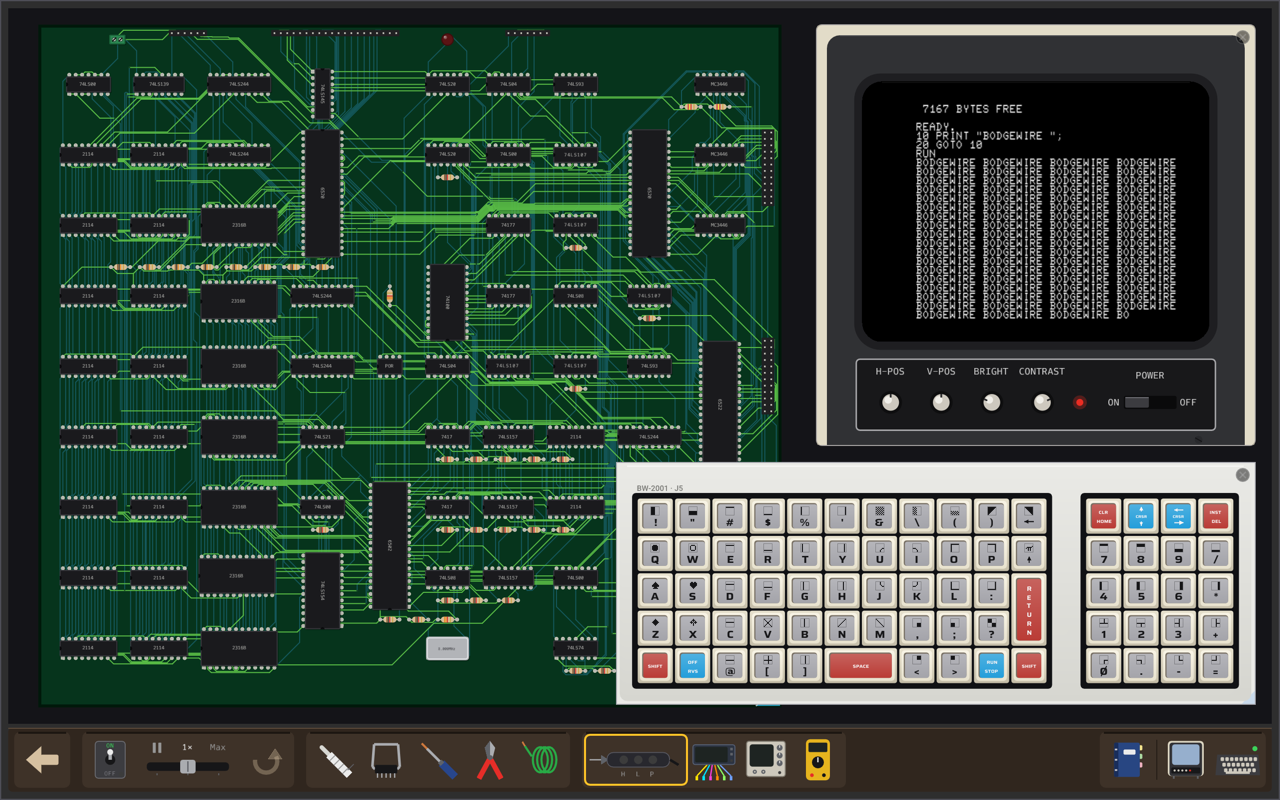
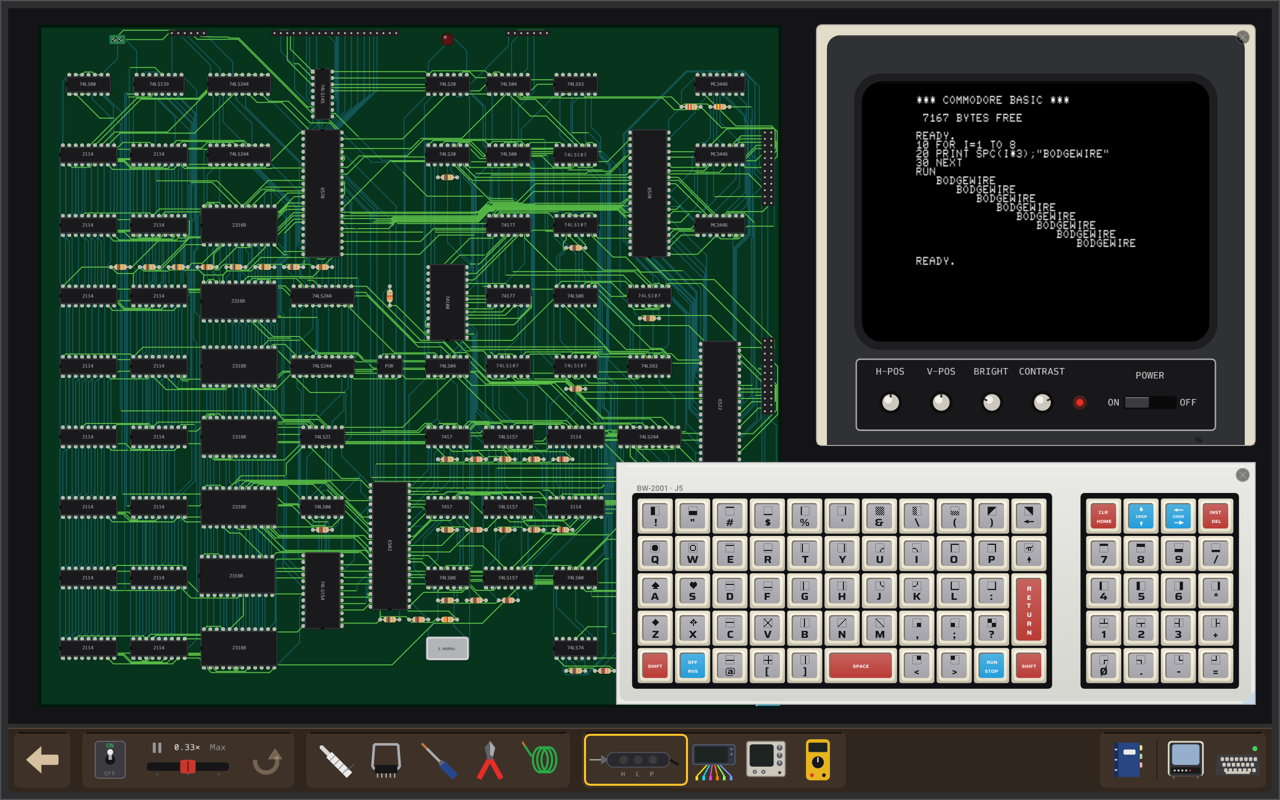
docs: the README's slow Machines at their speeds, the BW-2001 running a FOR loop
The BW-2001 at a third of its real speed, the BW-80 at a fifth (the M5
Max, now). Their pictures retaken with the speed on the run switch; the
BW-2001's program a FOR loop that ends: the banner, the program, its
staircase and READY. in one picture.

Changed region(s): [[0.7188, 0.0938, 0.9375, 0.4062], [0.125, 0.9375, 0.1562, 0.9688]]

diff --git a/tools/readme_shots.py b/tools/readme_shots.py
@@ -58,11 +58,13 @@ SHOTS = {
          "--type", "J3:1s:HELLO, WORLD"], "2.5s"),
     "led-computer": (["machines/110-led-computer/led_computer.bwn"], "1s"),
     "bw1": (["machines/120-bw1/bw1.bwn"], "2s"),
-    # 0.25x: 1.4 s simulated is 6 s of wall time, then the typing and a screenful.
+    # 0.33x: 1.4 s simulated is about 4 s of wall time, then the typing. A loop that ends, so the
+    # picture holds the boot banner, the program, its staircase and READY.
     "bw2001": (
         ["machines/130-bw2001/bw2001.bwn",
-         "--type", 'J5:1.4s:10 PRINT "BODGEWIRE ";\n20 GOTO 10\nRUN\n'], "25s"),
-    # 0.16x, about 0.18 s simulated a key. A two-line program entered, not run: at the K cursor
+         "--type", 'J5:1.4s:10 FOR I=1 TO 8\n20 PRINT SPC(I*3);"BODGEWIRE"\n30 NEXT\nRUN\n'],
+        "25s"),
+    # 0.2x, about 0.18 s simulated a key. A two-line program entered, not run: at the K cursor
     # O is PRINT and G is GOTO; NEW LINE is \r.
     "bw80": (
         ["machines/140-bw80/bw80.bwn", "--type", 'J3:400ms:10O"BODGEWIRE ";\r20G10\r'], "40s"),

diff --git a/docs/README_SPEC.md b/docs/README_SPEC.md
@@ -14,7 +14,7 @@ cmake --build --preset release && python3 -I tools/readme_shots.py          # al
 python3 -I tools/readme_shots.py bench traces                               # some
 ```
 
-View every picture after taking it. The slow Machines (BW-2001 at 0.25×, BW-80 at 0.16×) need
+View every picture after taking it. The slow Machines (BW-2001 at about 0.33×, BW-80 at 0.2×) need
 their `--after` raised on a slower computer.
 
 ## Audience
@@ -141,7 +141,7 @@ show something typed:
 | `typewriter` | TV Typewriter | CLEAR, then "HELLO, WORLD" typed |
 | `led-computer` | LED computer | the light running |
 | `bw1` | BW-1 (KIM-1-like) | the keypad and its six digits |
-| `bw2001` | BW-2001 (PET 2001 copy) | a BASIC loop printing BODGEWIRE |
+| `bw2001` | BW-2001 (PET 2001 copy) | the boot banner, a `FOR` loop typed and run (`10 FOR I=1 TO 8`, `20 PRINT SPC(I*3);"BODGEWIRE"`, `30 NEXT`): a staircase of BODGEWIRE, then `READY.` |
 | `bw80` | BW-80 (ZX80 copy) | a two-line program entered, not run: `10 PRINT "BODGEWIRE ";`, `20 GOTO 10` |
 
 ### 9. Building it
@@ -153,7 +153,7 @@ From a clean machine to the game running, as commands to copy:
   version list for other compilers; on macOS the Xcode command line tools plus
   `brew install cmake ninja`; on Linux, below;
 - a very powerful machine, said plainly before the Mac commands, with the numbers: on the
-  development Mac (an Apple M5 Max) the BW-2001 runs at 0.25× and the BW-80 at 0.16× (the speed
+  development Mac (an Apple M5 Max) the BW-2001 runs at about 0.33× and the BW-80 at 0.2× (the speed
   ratio `bw_ui --screenshot` prints; take it again at each regeneration), the small boards at
   1.00×;
 - SDL3, Dear ImGui and Catch2 are fetched by CMake on the first configure (network needed once);

diff --git a/README.md b/README.md
@@ -234,8 +234,8 @@ You need git, CMake 3.28 or later, Ninja and clang: Apple's on a Mac, clang 23 o
 the only compiler it's built with.
 
 You also need a very powerful machine. Every chip is simulated signal by signal, and the big
-computers are hungry: on an Apple M5 Max, the BW-2001 runs at a quarter of its real speed and the
-BW-80 at a sixth. The small boards keep up in real time.
+computers are hungry: on an Apple M5 Max, the BW-2001 runs at a third of its real speed and the
+BW-80 at a fifth. The small boards keep up in real time.
 
 On a Mac:
 
